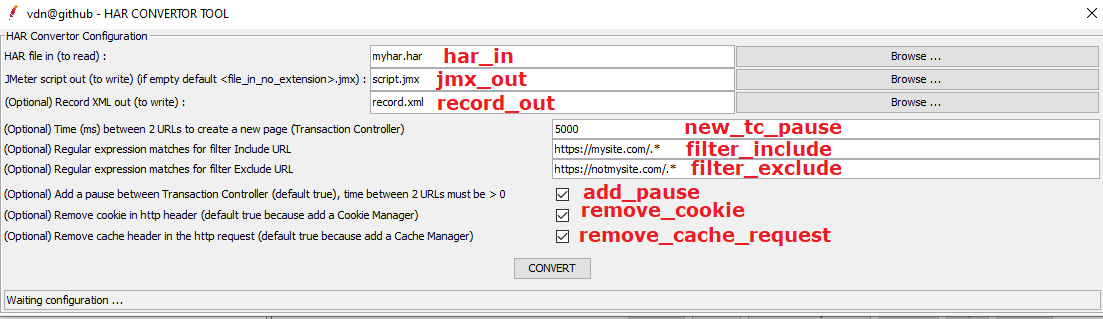
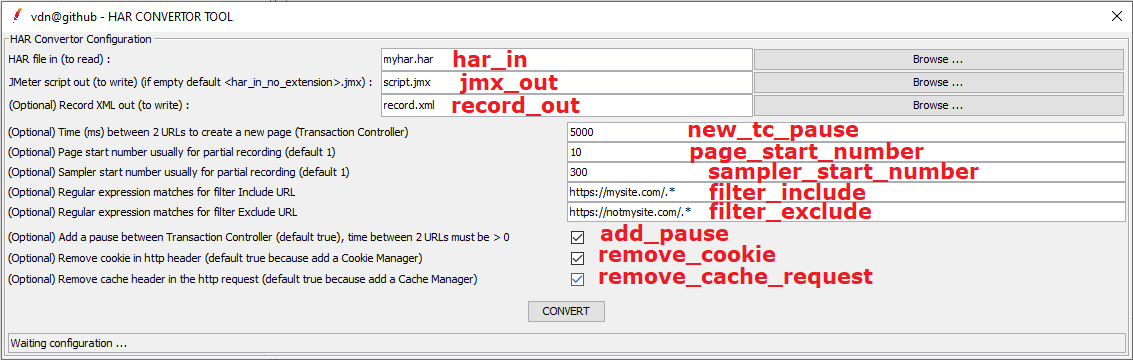
Version 2.0, for POST multipart/form-data don't put the content of the file in the Record.xml file because binary content could be large and not XML compatible, add parameters : page_start_number and sampler_start_number to facilitate partial recording of website navigation.

Changed region(s): [[0.0, 0.0, 1.0, 1.0]]

diff --git a/src/main/java/io/github/vdaburon/jmeterplugins/har/gui/HarConvertorGui.java b/src/main/java/io/github/vdaburon/jmeterplugins/har/gui/HarConvertorGui.java
@@ -58,6 +58,8 @@ public class HarConvertorGui extends AbstractAction implements
     private JTextField fileJmxOutTextField;
     private JTextField fileRecordOutTextField;
     private JTextField pauseBetweenUrlTextField;
+    private JTextField pageStartNumberTextField;
+    private JTextField samplerStartNumberTextField;
     private JButton fileHarInFileButton;
     private JTextField regexFilterIncludeField;
     private JTextField regexFilterExcludeField;
@@ -183,6 +185,34 @@ public class HarConvertorGui extends AbstractAction implements
                 }
             }
 
+            String sPageStartNumber = pageStartNumberTextField.getText();
+            int pageStartNumber = 1;
+            if (!sPageStartNumber.isEmpty()) {
+                try {
+                    pageStartNumber = Integer.parseInt(sPageStartNumber);
+                } catch (Exception ex) {
+                    log.warn("Error parsing int parameter " + ", value = " + sPageStartNumber + ", set to 1");
+                    pageStartNumber = 1;
+                }
+            }
+            if (pageStartNumber <= 0) {
+                pageStartNumber  = 1;
+            }
+
+            String sSamplerStartNumber = samplerStartNumberTextField.getText();
+            int samplerStartNumber = 1;
+            if (!sSamplerStartNumber.isEmpty()) {
+                try {
+                    samplerStartNumber = Integer.parseInt(sSamplerStartNumber);
+                } catch (Exception ex) {
+                    log.warn("Error parsing int parameter " + ", value = " + sSamplerStartNumber + ", set to 1");
+                    samplerStartNumber = 1;
+                }
+            }
+            if (samplerStartNumber <= 0) {
+                samplerStartNumber  = 1;
+            }
+
             boolean isRemoveCookieHeader = isRemoveCookieCheckbox.isSelected();
             boolean isRemoveCacheRequestHeader = isRemoveCacheRequestHeaderCheckbox.isSelected();
 
@@ -199,10 +229,11 @@ public class HarConvertorGui extends AbstractAction implements
                 log.info("regexFilterInclude=<" + regexFilterInclude + ">");
                 log.info("regexFilterExclude=<" + regexFilterExclude + ">");
                 log.info("isRemoveCookieHeader=<" + isRemoveCookieHeader + ">");
-                log.info("isRemoveCacheRequestHeader=<" + isRemoveCacheRequestHeader + ">");
+                log.info("samplerStartNumber=<" + samplerStartNumber + ">");
+                log.info("samplerStartNumber=<" + samplerStartNumber + ">");
                 log.info("****************************************");
 
-                HarForJMeter.generateJmxAndRecord(fileHarIn, fileJmxOut,createNewTransactionAfterRequestMs,isAddPause, isRemoveCookieHeader, isRemoveCacheRequestHeader, regexFilterInclude, regexFilterExclude, recordXmlOut);
+                HarForJMeter.generateJmxAndRecord(fileHarIn, fileJmxOut,createNewTransactionAfterRequestMs,isAddPause, isRemoveCookieHeader, isRemoveCacheRequestHeader, regexFilterInclude, regexFilterExclude, recordXmlOut, pageStartNumber, samplerStartNumber);
 
                 log.info("After HarForJMeter.generateJmxAndRecord");
                 btConvert.setEnabled(true);
@@ -269,8 +300,20 @@ public class HarConvertorGui extends AbstractAction implements
         JLabel pauseBetweenUrlLabel = new JLabel("(Optional) Time (ms) between 2 URLs to create a new page (Transaction Controller)");
         pauseBetweenUrlTextField = new JTextField("5000", 80);
 
+        JLabel pageStartNumberLabel = new JLabel("(Optional) Page start number usually for partial recording (default 1)");
+        pageStartNumberTextField = new JTextField("", 80);
+
+        JLabel samplerStartNumberLabel = new JLabel("(Optional) Sampler start number usually for partial recording (default 1)");
+        samplerStartNumberTextField = new JTextField("", 80);
+
         panel.add(pauseBetweenUrlLabel);
         panel.add(pauseBetweenUrlTextField);
+
+        panel.add(pageStartNumberLabel);
+        panel.add(pageStartNumberTextField);
+
+        panel.add(samplerStartNumberLabel);
+        panel.add(samplerStartNumberTextField);
 
         panel.add(regexFilterIncludeLabel);
         panel.add(regexFilterIncludeField);

diff --git a/README.md b/README.md
@@ -24,15 +24,19 @@ Parameters are :
   e.g. record_out = record.xml
 * new_tc_pause time between 2 urls to create a new page (Transaction Controller) (default 5000 = jmeter property value : proxy.pause=5000) <br/>
   * e.g. 5000 for 5 sec between 2 urls
+* page_start_number, set the start page number for partial recording (default 1, must be an integer > 0) <br/>
+* sampler_start_number, set the start sampler number for partial recording (default 1, must be an integer > 0) <br/>
 * filter_include,  the regular expression matches the URL to Include <br/>
   * default all = empty (no filter)
-  * e.g. filter_include = https://mysite.com/.*
+  * e.g. filter_include=https://mysite.com/.*
 * filter_exclude,  the regular expression matches the URL to Exclude <br/>
   * default all = empty (no filter)
-  * e.g. filter_include = https://notmysite.com/.*
+  * e.g. filter_exclude=https://notmysite.com/.*
+  * or filter statics, filter_exclude=(?i).*\.(bmp|css|js|gif|ico|jpe?g|png|swf|eot|otf|ttf|mp4|woff|woff2)
 * add_pause checkbox, add Flow Control Action Pause, parameter new_tc_pause must be > 0 (default true) <br/>
 * remove_cookie checkbox , remove header with cookie because add a Cookie Manager in the script (default true) <br/>
 * remove_cache_request checkbox, remove cache request header because add a Cache Manager in the script (default true) <br/>
+
 
 Status, the status line contains the tool status or the tool result.
 
@@ -82,7 +86,8 @@ Help to see all parameters :
 C:\apache-jmeter\bin&gt;har-convertor-to-jmeter.cmd -help
 usage: io.github.vdaburon.jmeter.har.HarForJMeter [-add_pause &lt;add_pause&gt;] [-filter_exclude &lt;filter_exclude&gt;]
        [-filter_include &lt;filter_include&gt;] -har_in &lt;har_in&gt; [-help] -jmx_out &lt;jmx_out&gt; [-new_tc_pause &lt;new_tc_pause&gt;]
-       [-record_out &lt;record_out&gt;] [-remove_cache_request &lt;remove_cache_request&gt;] [-remove_cookie &lt;remove_cookie&gt;]
+       [-page_start_number &lt;page_start_number&gt;] [-record_out &lt;record_out&gt;] [-remove_cache_request
+       &lt;remove_cache_request&gt;] [-remove_cookie &lt;remove_cookie&gt;] [-sampler_start_number &lt;sampler_start_number&gt;]
 io.github.vdaburon.jmeter.har.HarForJMeter
  -add_pause &lt;add_pause&gt;                         Optional boolean, add Flow Control Action Pause after Transaction
                                                 Controller (default true)
@@ -95,13 +100,16 @@ io.github.vdaburon.jmeter.har.HarForJMeter
                                                 jmeter property : proxy.pause, need to be &gt; 0 if set. Usefully for Har
                                                 created by Firefox or Single Page Application (Angular, ReactJS, VuesJS
                                                 ...)
+ -page_start_number &lt;page_start_number&gt;         Optional, the start page number for partial recording (default 1)
  -record_out &lt;record_out&gt;                       Optional, file xml contains exchanges likes recorded by JMeter
  -remove_cache_request &lt;remove_cache_request&gt;   Optional boolean, remove cache header in the http request (default true
                                                 because add a Cache Manager)
  -remove_cookie &lt;remove_cookie&gt;                 Optional boolean, remove cookie in http header (default true because add
                                                 a Cookie Manager)
+ -sampler_start_number &lt;sampler_start_number&gt;   Optional, the start sampler number for partial recording (default 1)
 E.g : java -jar har-for-jmeter-&lt;version&gt;-jar-with-dependencies.jar -har_in myhar.har -jmx_out scriptout.jmx
 -new_tc_pause 5000 -add_pause true -filter_include "https://mysite/.*" -filter_exclude "https://notmysite/*"
+-page_start_number 50 -sampler_start_number 250
 </pre>
 
 
@@ -123,8 +131,10 @@ The maven groupId, artifactId and version, this plugin is in the **Maven Central
 ```xml
 <groupId>io.github.vdaburon</groupId>
 <artifactId>har-convertor-jmeter-plugin</artifactId>
-<version>1.0</version>
+<version>2.0</version>
 ```
 ## Versions
-Version 1.0 date 2024-0311, First Release
+Version 2.0 date 2024-03-12, for POST multipart/form-data don't put the content of the file in the Record.xml file because binary content could be large and not XML compatible. Add parameters : page_start_number and sampler_start_number to facilitate partial recording of website navigation.
+
+Version 1.0 date 2024-03-11, First Release.
 
